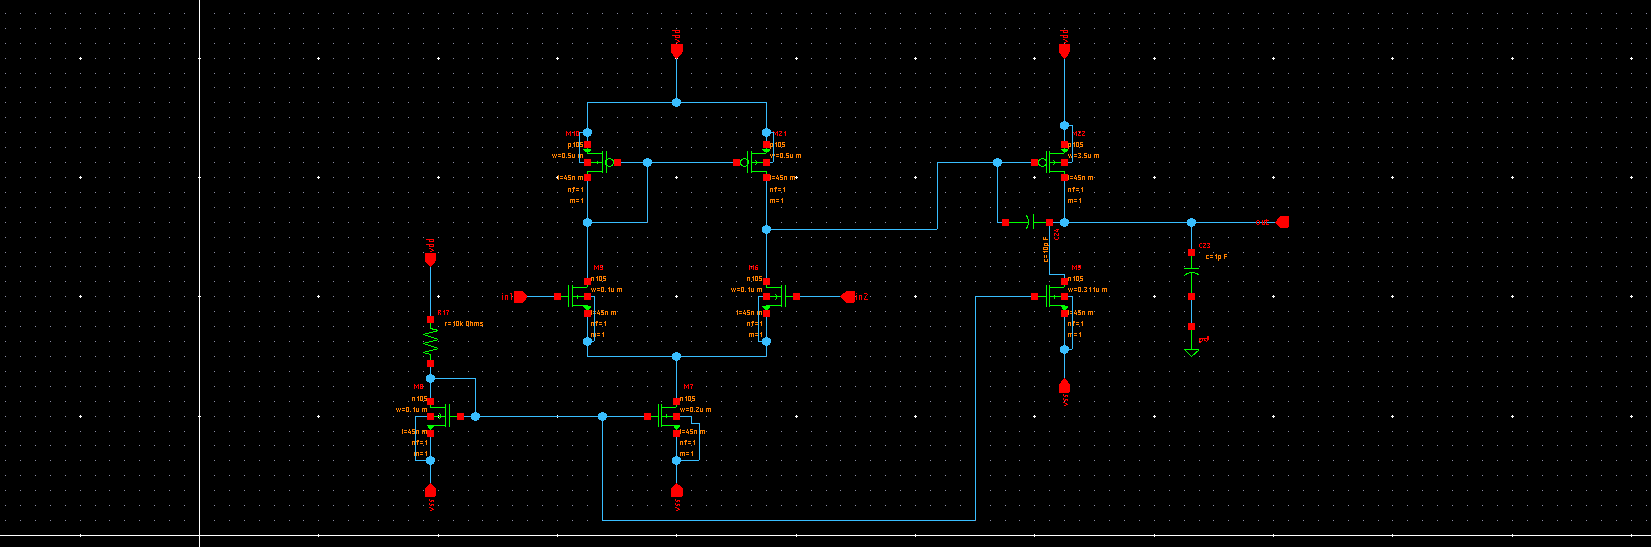
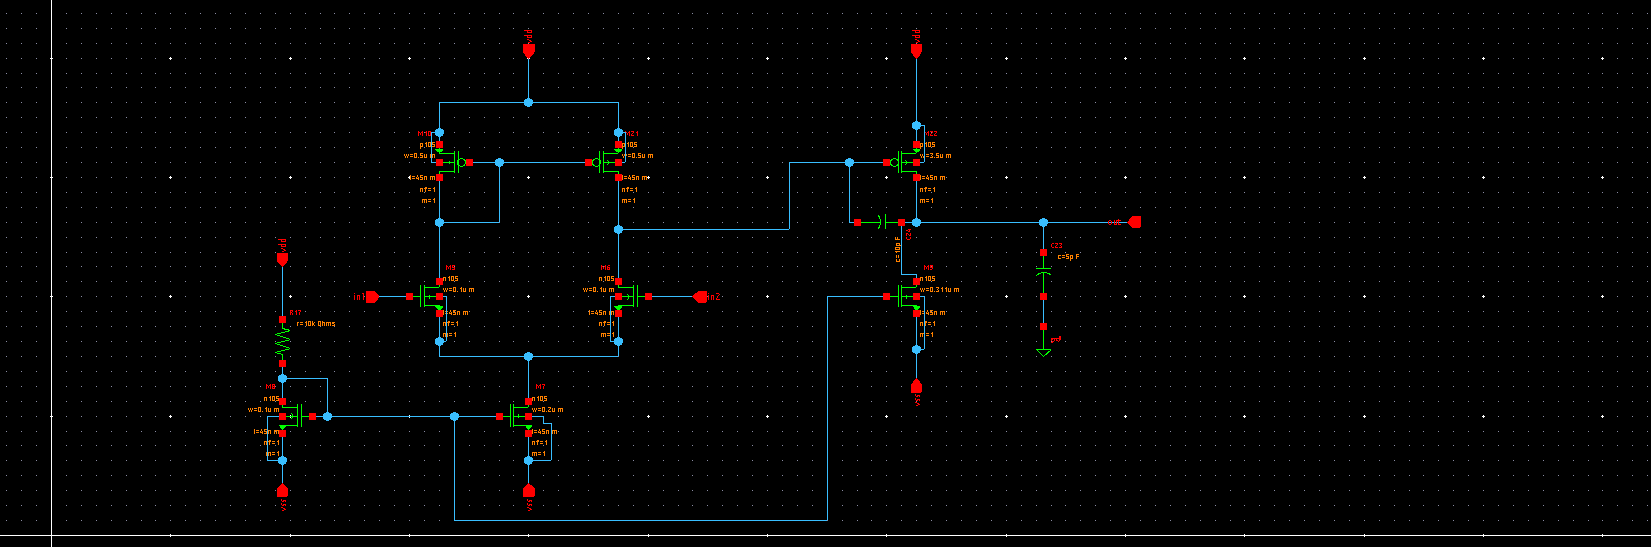
updated work

diff --git a/README.md b/README.md
@@ -13,13 +13,14 @@ This repository presents a report for the *Analog IC Design Hackathon* using *Sy
 - [Description](#description)
 - [Tools Used](#tools-used)
 - [Schematic](#schematic)
+- [Netlist](#netlist)
 - [Output Waveform](#output-waveform)
 - [Acknowlegements](#acknowledgements)
 - [References](#references)
 
 
 # Introduction
-This repo presents the design of an Astable Multivibrator using Operational Amplifier with CMOS Technology. Astable Multivibrator is an unstable circuit that oscillates between two states with the help of a RC feedback network, which can also be used as Pulse Generator or clock signal for digital circuit. The circuit can produce different frequency based on the value of resistors and capacitors chosen, this circuit gets no input except for the DC bias and produces oscillating output. This kind of pulse generation is power efficient, simple and inexpensive.
+This repository presents the design of an Astable Multivibrator using Operational Amplifier with CMOS Technology. Astable Multivibrator is an unstable circuit that oscillates between two states with the help of a RC feedback network, which can also be used as Pulse Generator or clock signal for digital circuit. The circuit can produce different frequency based on the value of resistors and capacitors chosen, this circuit gets no input except for the DC bias and produces oscillating output. This kind of pulse generation is power efficient, simple and inexpensive.
 
 # Description
 
@@ -34,18 +35,89 @@ Astable multivibrator is a circuit that oscillates between wo unstable stages ge
 # Schematic
 ![opamp](assets/opamp_schematic.png)
 
-![astable_multivibrator](assets/astable_multivibrator_ckt_schematic.png)
+![astable_multivibrator](assets/astable_multivibrator_schematic.png)
 
-![astable_multivibrator](assets/astable_multivibrator_ckt_sim_schematic.png)
+![astable_multivibrator](assets/astable_multivibrator_sim_schematic.png)
+
+# Netlist
+```
+*  Generated for: PrimeSim
+*  Design library name: astable_multivibrator
+*  Design cell name: opamp_sim
+*  Design view name: schematic
+.lib 'saed32nm.lib' TT
+
+*Custom Compiler Version S-2021.09
+*Thu Feb 24 11:15:40 2022
+
+.global gnd!
+********************************************************************************
+* Library          : astable_multivibrator
+* Cell             : opamp
+* View             : schematic
+* View Search List : hspice hspiceD schematic spice veriloga
+* View Stop List   : hspice hspiceD
+********************************************************************************
+.subckt opamp in1 in2 out vdd vss
+r17 vdd net75 r=10k
+xm21 net79 net53 vdd vdd p105 w=0.5u l=45n nf=1 m=1
+xm22 out net79 vdd vdd p105 w=3.5u l=45n nf=1 m=1
+xm10 net53 net53 vdd vdd p105 w=0.5u l=45n nf=1 m=1
+xm7 net29 net75 vss vss n105 w=0.2u l=45n nf=1 m=1
+xm6 net79 in2 net29 net29 n105 w=0.1u l=45n nf=1 m=1
+xm5 net53 in1 net29 net29 n105 w=0.1u l=45n nf=1 m=1
+xm9 out net75 vss vss n105 w=0.311u l=45n nf=1 m=1
+xm8 net75 net75 vss vss n105 w=0.1u l=45n nf=1 m=1
+c23 out gnd! c=5p
+c24 out net79 c=10p
+.ends opamp
+
+********************************************************************************
+* Library          : astable_multivibrator
+* Cell             : opamp_sim
+* View             : schematic
+* View Search List : hspice hspiceD schematic spice veriloga
+* View Stop List   : hspice hspiceD
+********************************************************************************
+xi0 in1 in2 out net11 net41 opamp
+v17 in2 gnd! dc=0 sin ( 0 -1m 1k 0 0 0 )
+v16 in1 gnd! dc=0 sin ( 0 1m 1k 0 0 0 )
+v18 net11 gnd! dc=1.05
+v20 gnd! net41 dc=1.05
+
+.tran '.1u' '5m' name=tran
+
+.option primesim_remove_probe_prefix = 0
+.probe v(*) i(*) level=1
+.probe tran v(in1) v(in2) v(out)
+
+.temp 25
+
+.option primesim_output=wdf
+
+.option parhier = LOCAL
+
+.end
+
+```
 
 # Output Waveform
-![tran_wave](assets/output.png)
+- Operational Amplifier
+![opamp_tran_wave](assets/opamp_waveform.png)
+- Astable Multivibrator
+![astable_multivibrator_tran](assets/astable_multivibrator_waveform.png)
+
+- Achieved Square Wave
+![achieved](assets/astable_multivibrator_waveform_3.png)
+
 
 # Report By
  - R.V.Rohinth Ram
+
 # Acknowledgements
 - Kunal Ghosh, Co-founder, VLSI System Design (VSD) Corp. Pvt. Ltd. - kunalpghosh@gmail.com
 - Sameer S Durgoji
+- [Synopsys](https://www.synopsys.com/)
 
 # References
 [1] D. Nageshwarrao, K. S. Kumar, Y. R. Rao, and G. Jyothi, "Implementation and simulation of cmos two stage operational amplifier,"
